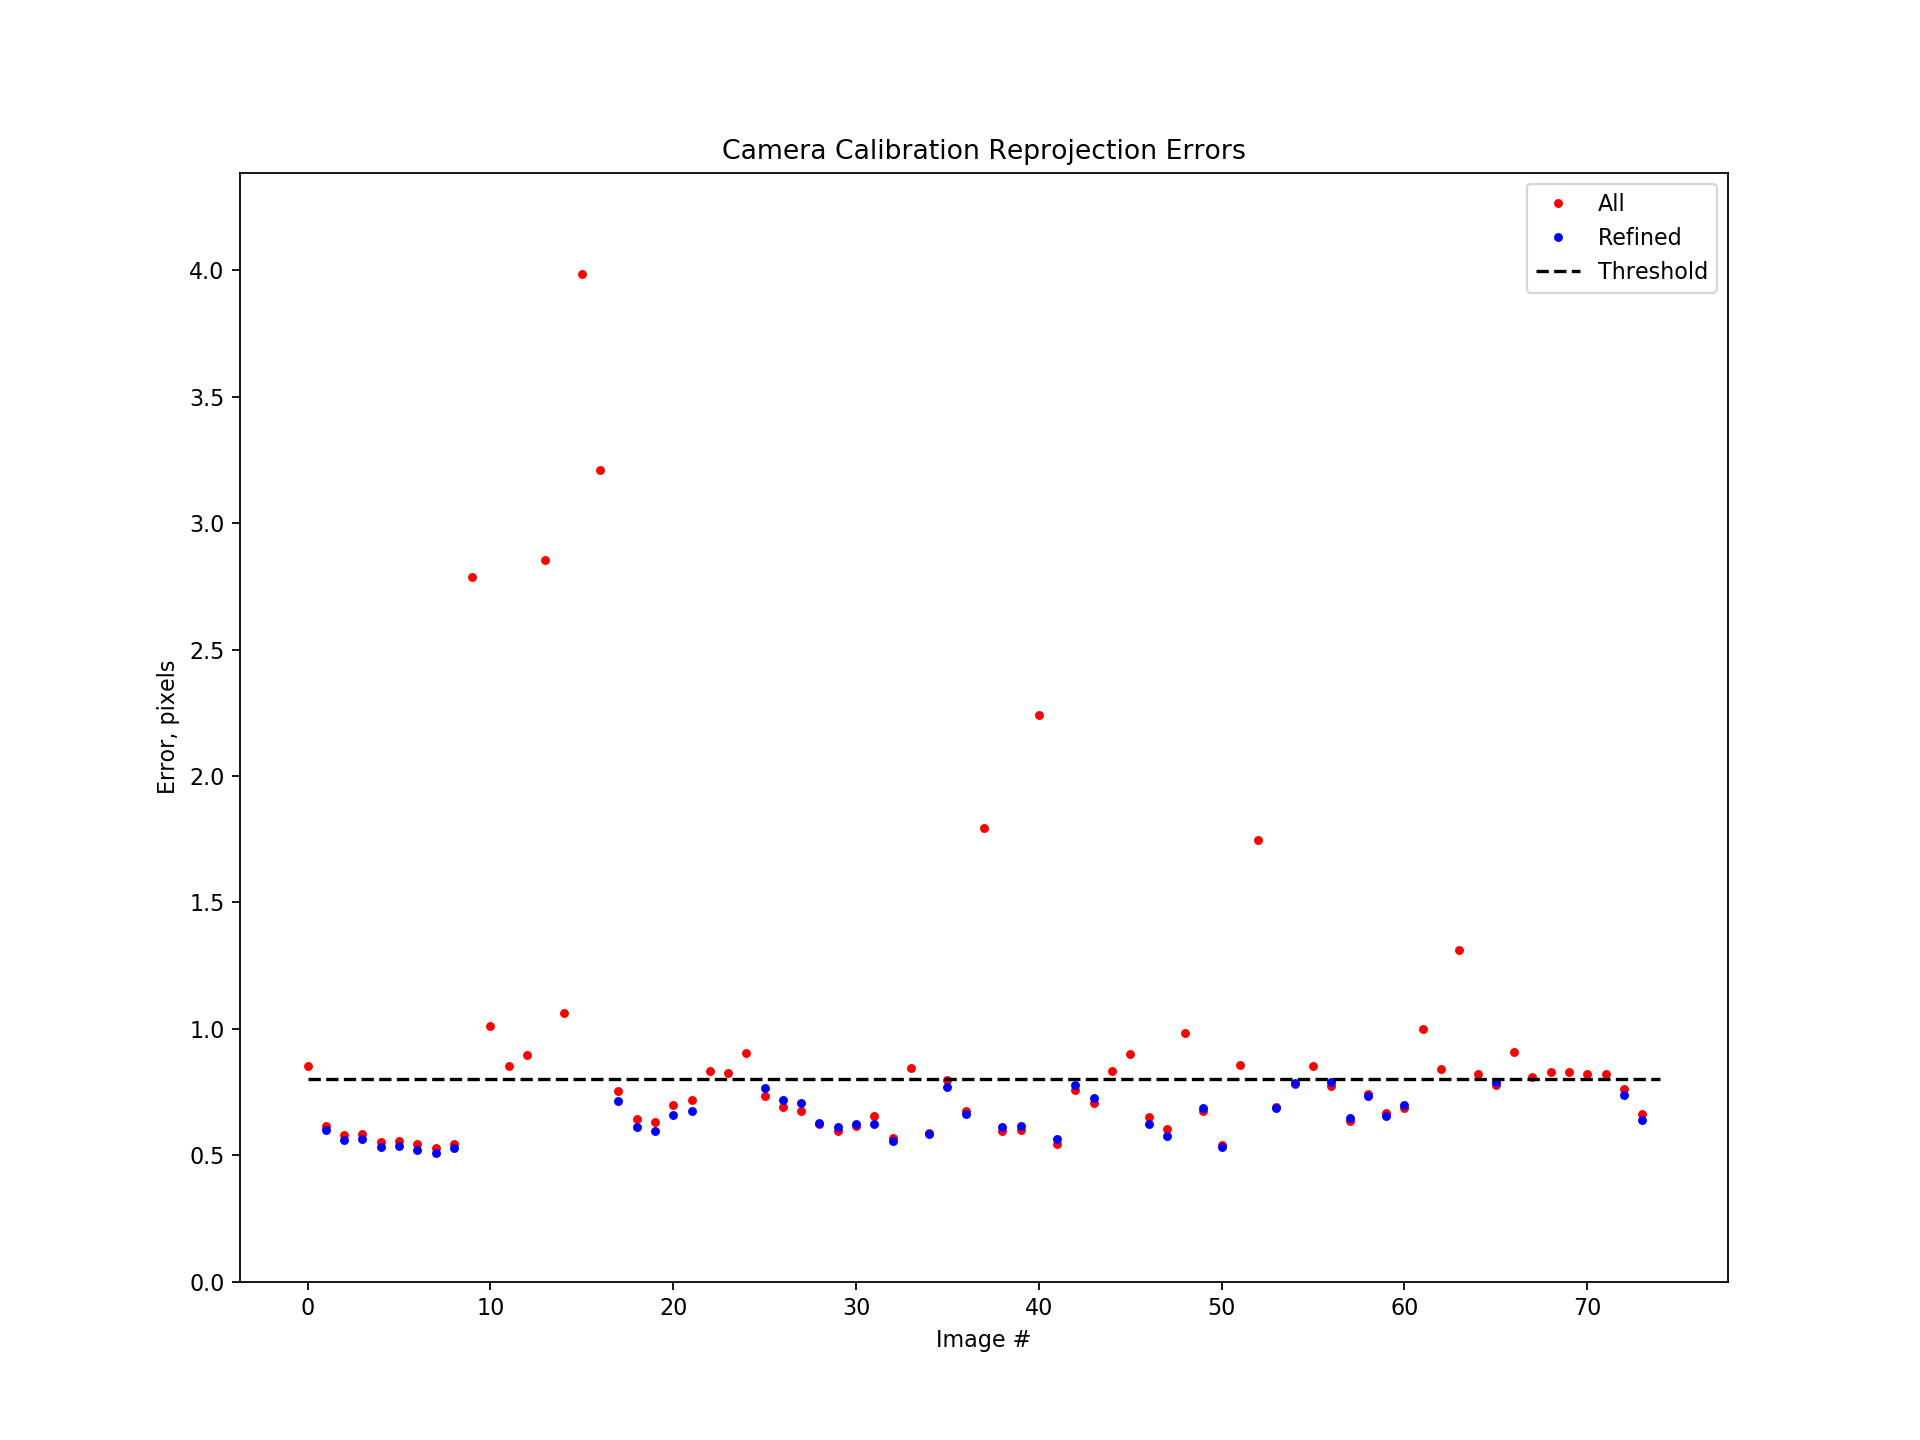
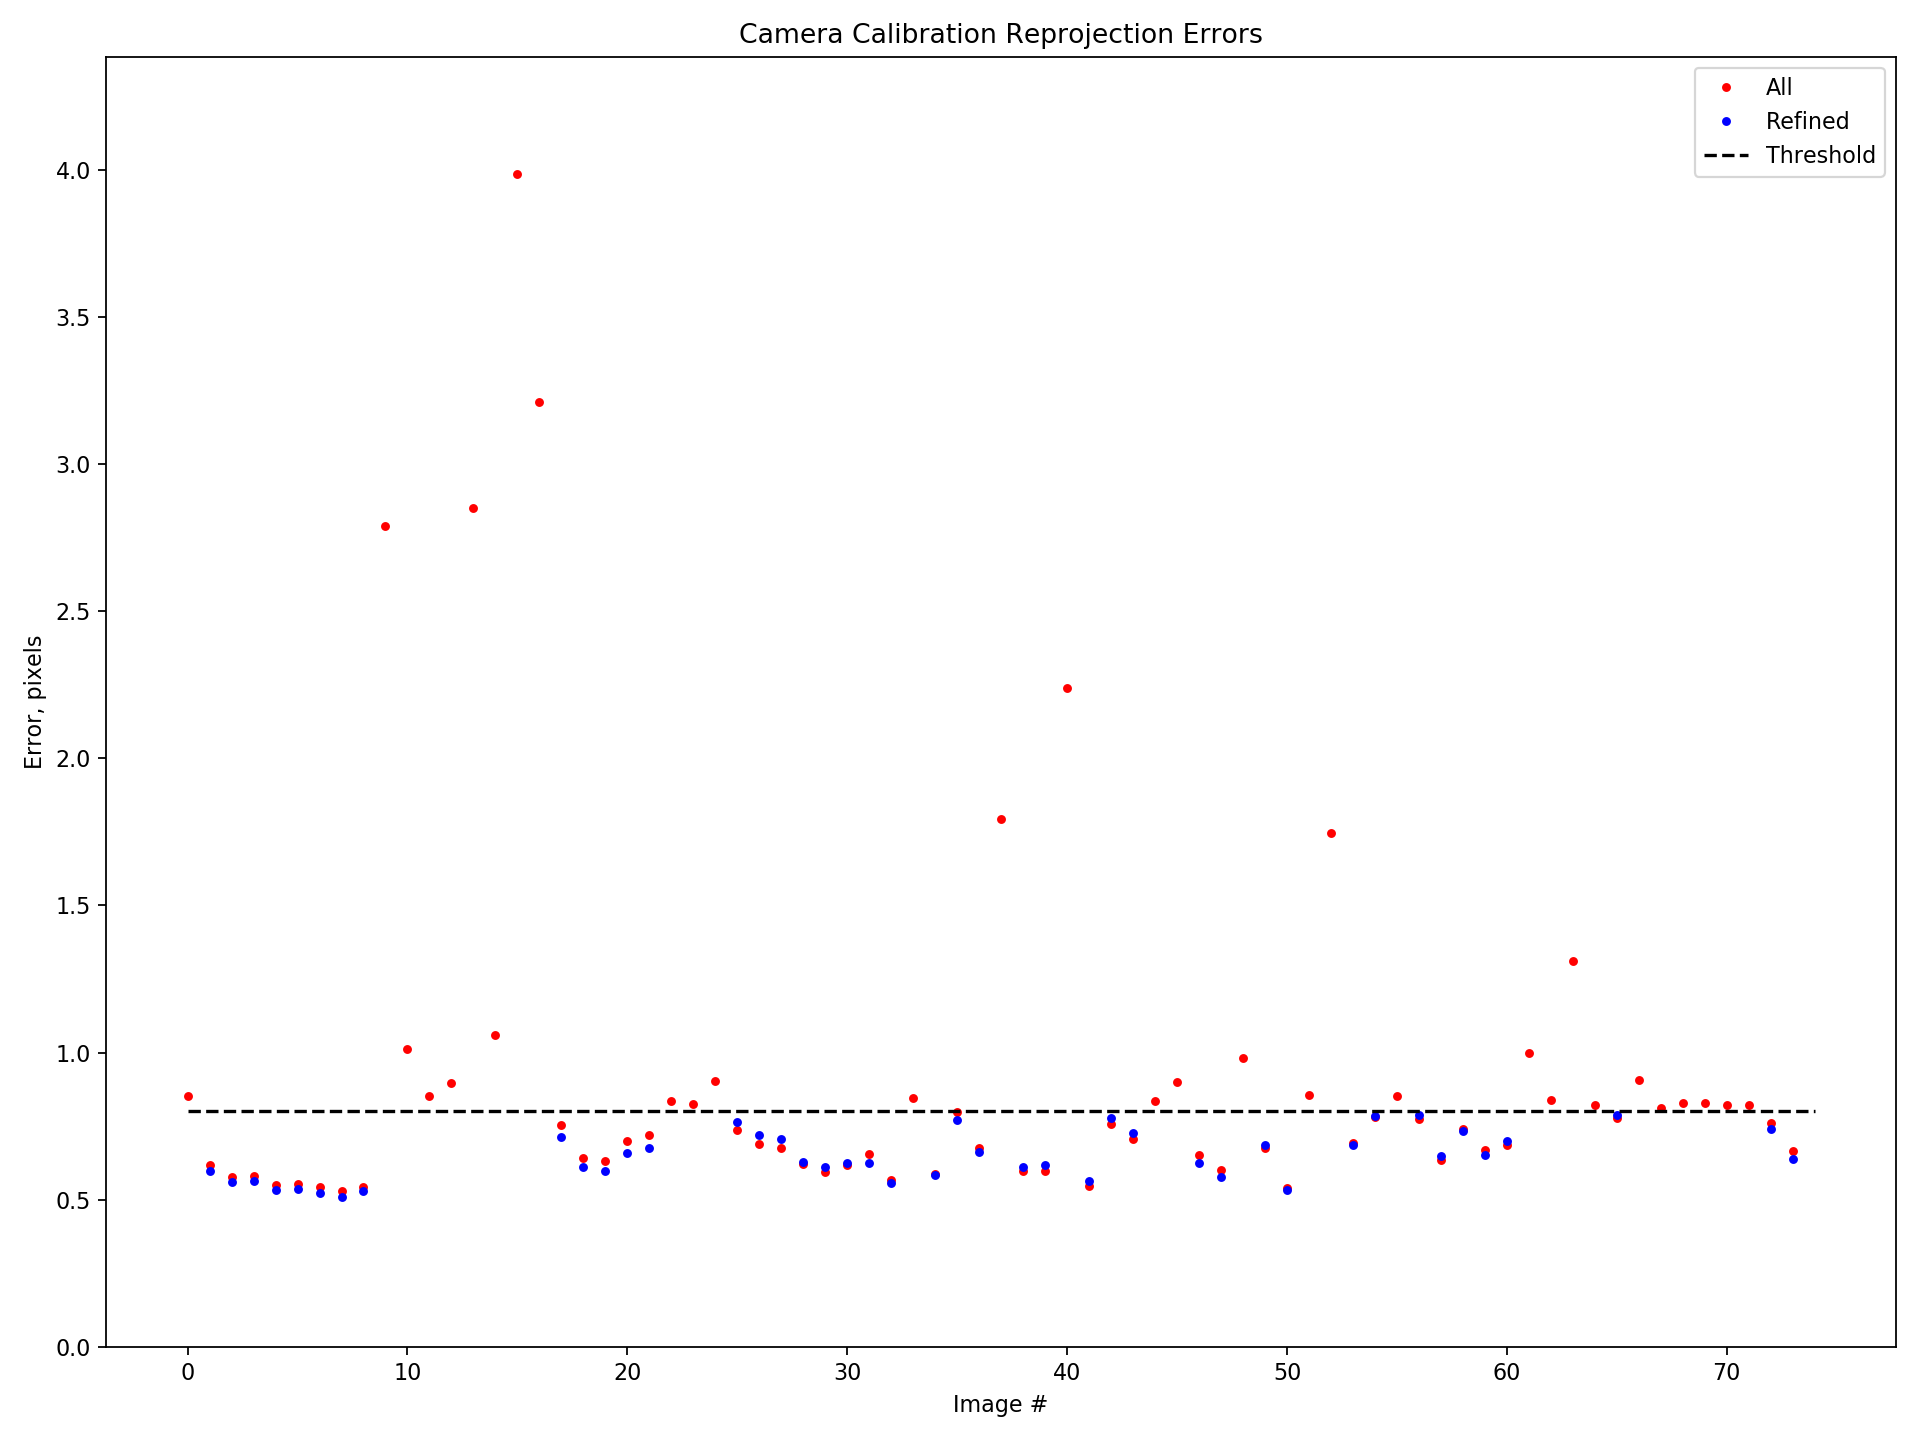
Evaluate reconstruction errors

diff --git a/capture/reconstruct.py b/capture/reconstruct.py
@@ -1,0 +1,182 @@
+import os
+import cv2
+import time
+import json
+import queue
+import pickle
+import numpy as np
+import matplotlib.pyplot as plt
+import scipy.ndimage.morphology as morph
+from sklearn.decomposition import PCA
+
+from hdr import *
+from projector import *
+
+
+def gray_to_bin(num):
+    num = np.bitwise_xor(num, np.right_shift(num, 16))
+    num = np.bitwise_xor(num, np.right_shift(num, 8))
+    num = np.bitwise_xor(num, np.right_shift(num, 4))
+    num = np.bitwise_xor(num, np.right_shift(num, 2))
+    num = np.bitwise_xor(num, np.right_shift(num, 1))
+    return num
+
+
+def load_cached(path):
+    if not os.path.isfile(path + "dark.npy"):
+        dark = load_openexr(path + "0.exr")
+        np.save(path + "dark", np.array(dark))
+
+    if not os.path.isfile(path + "white.npy"):
+        white = load_openexr(path + "1.exr")
+        np.save(path + "white", np.array(white))
+
+    if not os.path.isfile(path + "hor.npy") or not os.path.isfile(path + "hor_i.npy"):
+        hor, hor_i = [], []
+        for i in range(11):
+            hor.append(load_openexr(path + "%d.exr" % (100 + i)))
+            hor_i.append(load_openexr(path + "%d.exr" % (200 + i)))
+
+        np.save(path + "hor", np.array(hor))
+        np.save(path + "hor_i", np.array(hor_i))
+
+    if not os.path.isfile(path + "ver.npy") or not os.path.isfile(path + "ver_i.npy"):
+        ver, ver_i = [], []
+        for i in range(11):
+            ver.append(load_openexr(path + "%d.exr" % (300 + i)))
+            ver_i.append(load_openexr(path + "%d.exr" % (400 + i)))
+
+        np.save(path + "ver", np.array(ver))
+        np.save(path + "ver_i", np.array(ver_i))
+
+    return np.load(path + "dark.npy"), np.load(path + "white.npy"), \
+           np.load(path + "hor.npy"), np.load(path + "hor_i.npy"), \
+           np.load(path + "ver.npy"), np.load(path + "ver_i.npy")
+
+
+if __name__ == "__main__":
+    path = "plane/"
+
+    # dark, white, hor, hor_i, ver, ver_i = load_cached(path)
+    #
+    # hor -= dark
+    # i = 0
+    # save_openexr(path + "subtracted%d.exr" % i, hor[i, ...])
+    #
+    # white -= dark
+    # hor -= dark
+    # hor_i -= dark
+    # ver -= dark
+    # ver_i -= dark
+    #
+    # mask = white > 0.05*np.max(white)
+    # struct = scipy.ndimage.generate_binary_structure(2, 2)
+    # mask = morph.binary_erosion(mask, struct, 2)
+    # idx = np.nonzero(mask)
+    #
+    # hor_m = hor > hor_i
+    # ver_m = ver > ver_i
+    # hor2 = np.zeros_like(hor_m)
+    # ver2 = np.zeros_like(ver_m)
+    # hor2[:, idx[0], idx[1]] = hor_m[:, idx[0], idx[1]]
+    # ver2[:, idx[0], idx[1]] = ver_m[:, idx[0], idx[1]]
+    #
+    # h = np.zeros_like(mask, dtype=np.int)
+    # v = np.zeros_like(mask, dtype=np.int)
+    #
+    # for i in range(11):
+    #     h = np.bitwise_or(h, np.left_shift(hor2[i, ...].astype(np.int), i))
+    #     v = np.bitwise_or(v, np.left_shift(ver2[i, ...].astype(np.int), i))
+    #
+    # h = gray_to_bin(h)
+    # v = gray_to_bin(v)
+    # r, c = np.nonzero((h > 0) & (v > 0))
+    # p_r, p_c = h[r, c].ravel(), v[r, c].ravel()
+    # cam = np.stack([c, r], axis=1)
+    # proj = np.stack([p_c, p_r], axis=1)
+    #
+    # np.save(path + "cam", cam)
+    # np.save(path + "proj", proj)
+
+    cam, proj = np.load(path + "cam.npy"), np.load(path + "proj.npy")
+
+    with open("../calibration/camera/refined_calibration.pkl", "rb") as f:
+        ret, cam_mtx, cam_dist, rvecs, tvecs = pickle.load(f)
+
+    w, h = 6464, 4852
+    new_cam_mtx, cam_roi = cv2.getOptimalNewCameraMatrix(cam_mtx, cam_dist, (w, h), 1, (w, h))
+
+    with open("../calibration/projector/calibration.pkl", "rb") as f:
+        origin, R, proj_mtx, proj_dist = pickle.load(f)
+
+    w, h = 1920, 1080
+    new_proj_mtx, proj_roi = cv2.getOptimalNewCameraMatrix(proj_mtx, proj_dist, (w, h), 1, (w, h))
+
+    cam2 = cv2.undistortPoints(cam.astype(np.float), cam_mtx, cam_dist).reshape((-1, 2))
+    proj2 = cv2.undistortPoints(proj.astype(np.float), proj_mtx, proj_dist).reshape((-1, 2))
+
+    cam_3d = np.concatenate([cam2, np.ones((cam2.shape[0], 1))], axis=1)
+    proj_3d = np.concatenate([proj2, np.ones((proj2.shape[0], 1))], axis=1)
+
+    # cam_3d = np.stack([(cam2[:, 0] - new_cam_mtx[0, 2]) / new_cam_mtx[0, 0],
+    #                    (cam2[:, 1] - new_cam_mtx[1, 2]) / new_cam_mtx[1, 1], np.ones((cam2.shape[0]))], axis=1)
+    #
+    # proj_3d = np.stack([(proj2[:, 0] - new_proj_mtx[0, 2]) / new_proj_mtx[0, 0],
+    #                     (proj2[:, 1] - new_proj_mtx[1, 2]) / new_proj_mtx[1, 1], np.ones((proj2.shape[0]))], axis=1)
+
+    proj_3d = np.matmul(R, proj_3d.T).T
+
+    v12 = np.sum(np.multiply(cam_3d, proj_3d), axis=1)
+    v1 = np.linalg.norm(cam_3d, axis=1)**2
+    v2 = np.linalg.norm(proj_3d, axis=1)**2
+    L = (np.matmul(cam_3d, origin) * v2 + np.matmul(proj_3d, -origin) * v12) / (v1 * v2 - v12**2)
+
+    p = cam_3d * L[:, None]
+
+    # plt.figure()
+    # plt.plot(proj2[::1000, 0], proj2[::1000, 1], '.')
+
+    plt.figure("Reconstruction", (12, 12))
+    ax = plt.subplot(111, projection='3d', proj_type='ortho')
+    ax.set_title("Reconstruction")
+    scatter(ax, p[::3000, :].T, label="p")
+    # scatter(ax, 400*cam_3d[::5000, :].T, label="cam")
+    # scatter(ax, np.array([0, 0, 0]), label="cam0")
+    # scatter(ax, origin[:, None] + 150*proj_3d[::5000, :].T, label="proj")
+    # scatter(ax, origin, label="proj0")
+
+    ax.set_xlabel("x, mm")
+    ax.set_ylabel("z, mm")
+    ax.set_zlabel("-y, mm")
+    plt.legend()
+    plt.tight_layout()
+    axis_equal_3d(ax)
+
+    pca = PCA(n_components=3)
+    p2 = pca.fit_transform(p)
+
+    # p -= np.average(p, axis=0)
+    # uu, dd, vv = np.linalg.svd(p)
+    # print(vv)
+
+    plt.figure("Plane Reconstruction", (12, 9))
+    plt.hist(p2[:, 2], bins=1000)
+    mean, std = np.mean(p2[:, 2]), np.std(p2[:, 2])
+    print(mean, std)
+    plt.title("Plane Reconstruction (std = %.5f)" % std)
+    plt.xlabel("Error, mm")
+    plt.tight_layout()
+    plt.savefig(path + "plane_reconstruction_errors.png", dpi=160)
+
+
+    # plt.figure()
+    # plt.imshow(hor[5, ...], vmax=s)
+    # plt.imshow(hor_m[0, ...])
+    # plt.imshow(h)
+    # plt.figure()
+    # plt.imshow(v)
+    # plt.colorbar()
+    # plt.tight_layout()
+
+    plt.show()
+    print("Done")

diff --git a/calibration/projector.py b/calibration/projector.py
@@ -437,7 +437,10 @@ if __name__ == "__main__":
 
     planes, cam_new_mtx = load_planes(path + "planes.json")
 
-    origin, R, mtx, dist = calibrate_projector(planes, cam_new_mtx, plot=True, savefigs=True)
+    projector_calibration = calibrate_projector(planes, cam_new_mtx, plot=True, savefigs=True)
+
+    with open("projector/calibration.pkl", "wb") as f:
+        pickle.dump(projector_calibration, f)
 
     plt.show()
     exit()

diff --git a/calibration/camera.py b/calibration/camera.py
@@ -136,6 +136,7 @@ if __name__ == "__main__":
     plt.ylabel("Error, pixels")
     plt.ylim([0, 1.1*np.max(errors)])
     plt.legend()
+    plt.tight_layout()
     plt.savefig("camera/reprojection_errors.png", dpi=160)
 
     h, w = img.shape[:2]
